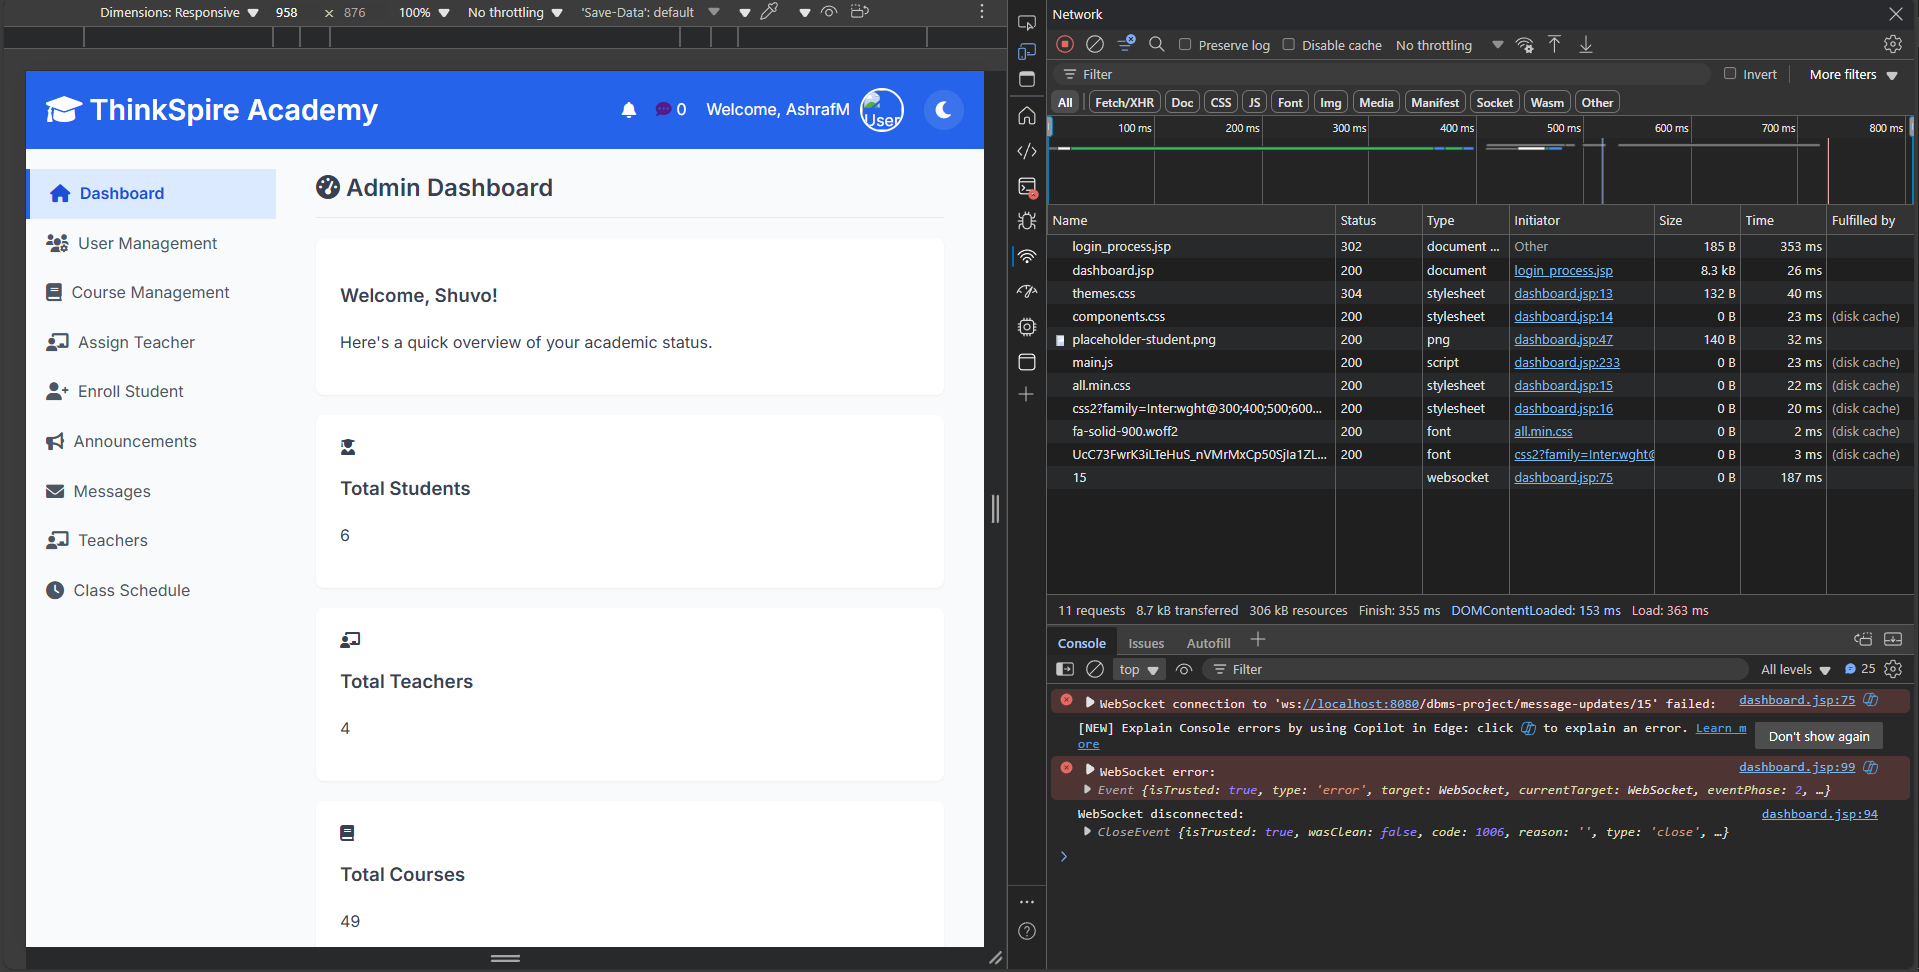
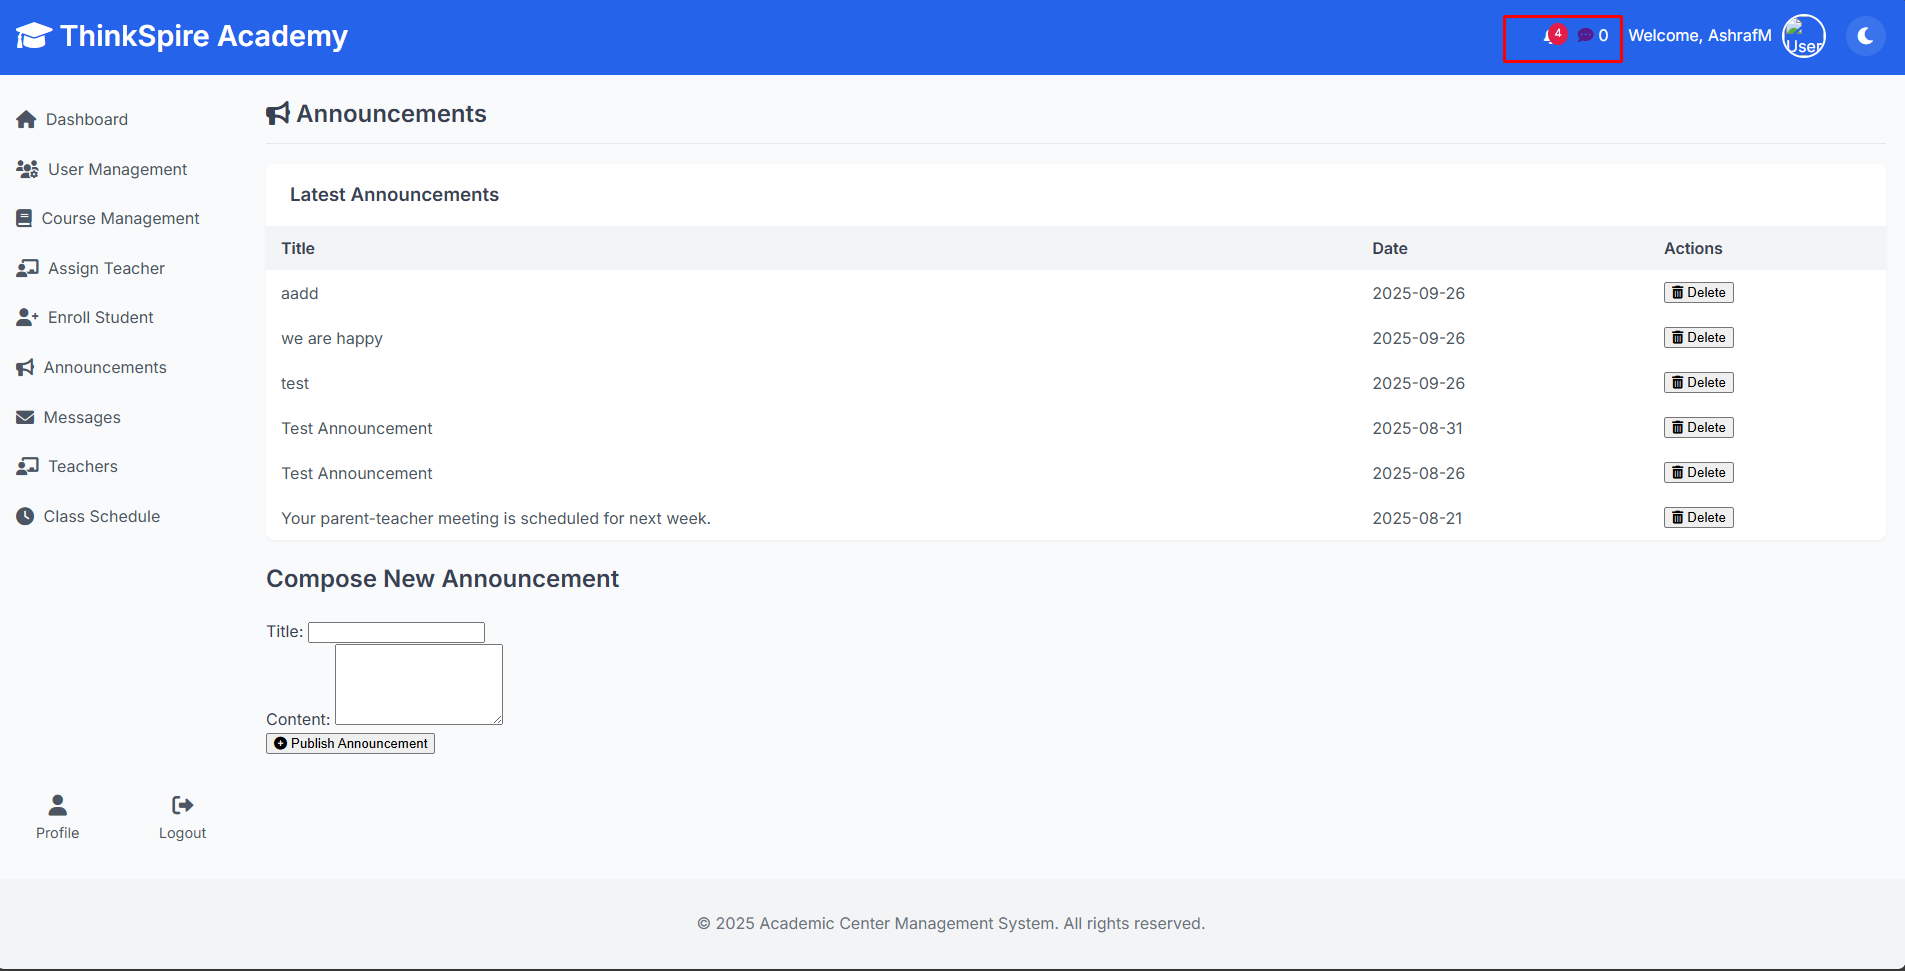
feat(notifications): Add "Mark All As Read" and hide zero counts

diff --git a/webapp/js/main.js b/webapp/js/main.js
@@ -109,11 +109,12 @@ document.addEventListener('DOMContentLoaded', function() {
         const currentCount = parseInt(element.textContent, 10);
         const newCount = parseInt(count, 10);
 
+        element.textContent = newCount; // Always update text content
+
         if (newCount > 0) {
-            element.textContent = newCount;
-            element.classList.remove('hidden');
+            element.style.display = 'block'; // Show if count > 0
         } else {
-            element.classList.add('hidden');
+            element.style.display = 'none'; // Hide if count is 0
         }
 
         // Optional: Add a small animation if the count changes

diff --git a/webapp/css/components.css b/webapp/css/components.css
@@ -96,6 +96,21 @@ body {
     right: -10px; /* Adjusted position */
 }
 
+.main-header .message-count {
+    background: var(--accent-rose);
+    color: white;
+    border-radius: 50%;
+    padding: 2px 6px;
+    font-size: 0.7rem;
+    position: absolute;
+    top: -5px;
+    right: -10px; /* Adjusted position */
+}
+
+.main-header .message-icon {
+    position: relative;
+}
+
 .main-header .user-menu {
     display: flex;
     align-items: center;

diff --git a/docs/notification_fix_summary.md b/docs/notification_fix_summary.md
@@ -1,0 +1,49 @@
+# Notification System Fix Summary
+
+This document summarizes the process of implementing and debugging the real-time notification count functionality, ensuring the bell icon accurately reflects unread announcements.
+
+## 1. Problem Statement
+
+The initial implementation of the real-time notification system had several issues:
+*   The notification bell count did not decrease when an announcement was viewed.
+*   New announcements were not reliably increasing the bell count.
+*   The announcement deletion functionality was broken, returning a `400 Bad Request` error.
+*   An error occurred during new announcement creation related to generated keys.
+
+## 2. Solution Overview
+
+The solution involved a multi-layered approach, addressing database schema, backend logic, and frontend JavaScript:
+
+### 2.1. Database Changes
+*   **`Notifications` Table Alteration:** Added an `AlertID` column to the `Notifications` table to link notifications directly to specific announcements in `Alert_Log`.
+
+### 2.2. Backend Logic Updates
+*   **`announcements_process.jsp`:**
+    *   Modified the `INSERT` statement for `Alert_Log` to correctly retrieve generated keys (`AlertID`).
+    *   Ensured the `AlertID` is stored in the `Notifications` table when new announcements are created.
+    *   Refactored the delete functionality to return a proper JSON response and explicitly `return` after sending the response, fixing the `400 Bad Request` error.
+*   **`mark_notification_read.jsp`:** Created a new JSP endpoint to handle marking notifications as read. It updates the `IsRead` status in the `Notifications` table for a given `UserID` and `AlertID`.
+
+### 2.3. Frontend Integration
+*   **`announcements.jsp`:**
+    *   Added `data-alert-id` attributes to announcement items in the HTML to pass the `AlertID` to JavaScript.
+    *   Updated the JavaScript `fetch` call in the `openModal` function to correctly send the `AlertID` to `mark_notification_read.jsp` using `URLSearchParams`.
+    *   Implemented a custom event (`notificationRead`) to trigger a count refresh after a notification is marked as read.
+*   **`js/main.js`:** Modified to listen for the `notificationRead` custom event and trigger `fetchCounts()` to update the bell icon.
+
+## 3. Troubleshooting Highlights
+
+Several issues were encountered and resolved during the implementation:
+*   **`Generated keys not requested` error:** Fixed by adding `Statement.RETURN_GENERATED_KEYS` to the `PreparedStatement` for `Alert_Log` insertion.
+*   **`400 Bad Request` on delete:** Resolved by restructuring `announcements_process.jsp` to ensure a clean JSON response and explicit `return` for AJAX calls.
+*   **`SyntaxError: Unexpected end of JSON input`:** Traced to incorrect `Content-Type` handling in frontend `fetch` requests for delete, fixed by using `URLSearchParams`.
+*   **`AlertID` not passed to backend:** Debugged by adding extensive logging to both frontend JavaScript and backend JSPs, revealing that `AlertID` was not correctly retrieved from `data-alert-id` due to a subtle rendering issue, and then not correctly sent in the `fetch` body.
+
+## 4. Outcome
+
+The notification system is now fully functional:
+*   New announcements correctly increase the bell count.
+*   Viewing an announcement in the modal correctly decreases the bell count.
+*   Announcement deletion works smoothly with dynamic UI updates.
+
+This comprehensive fix ensures a robust and user-friendly notification experience.
